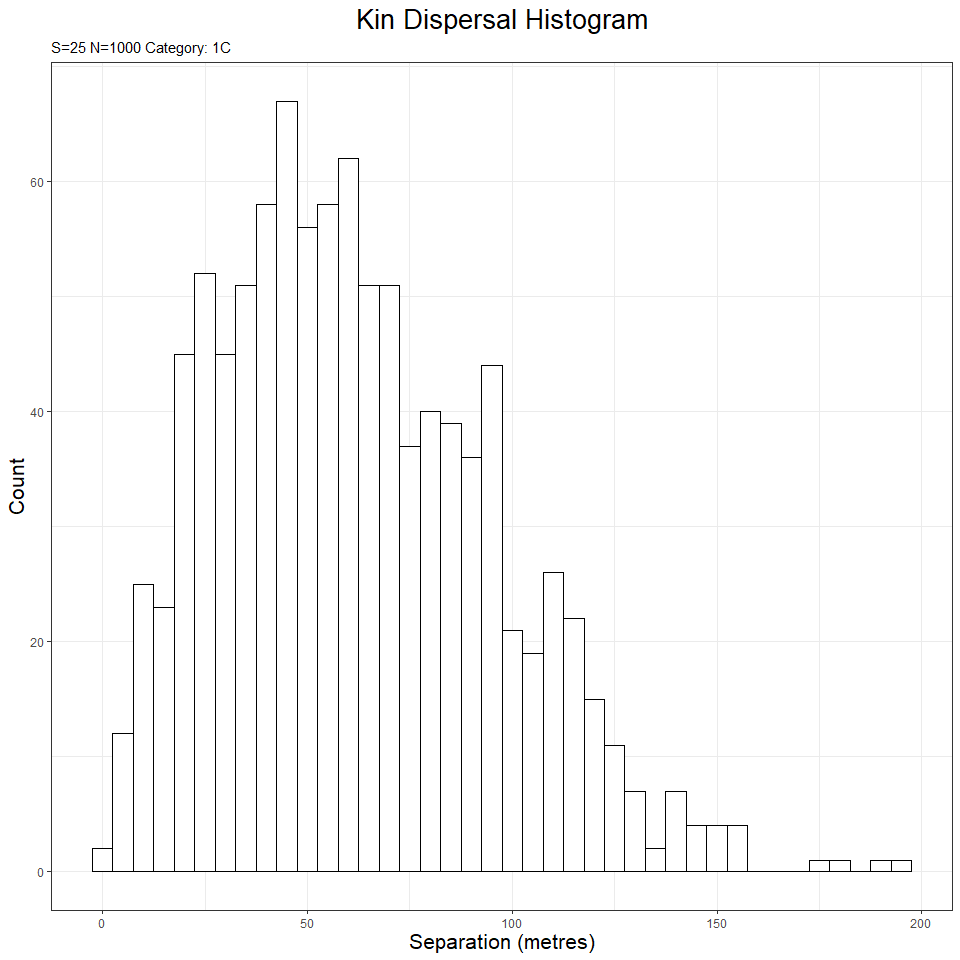
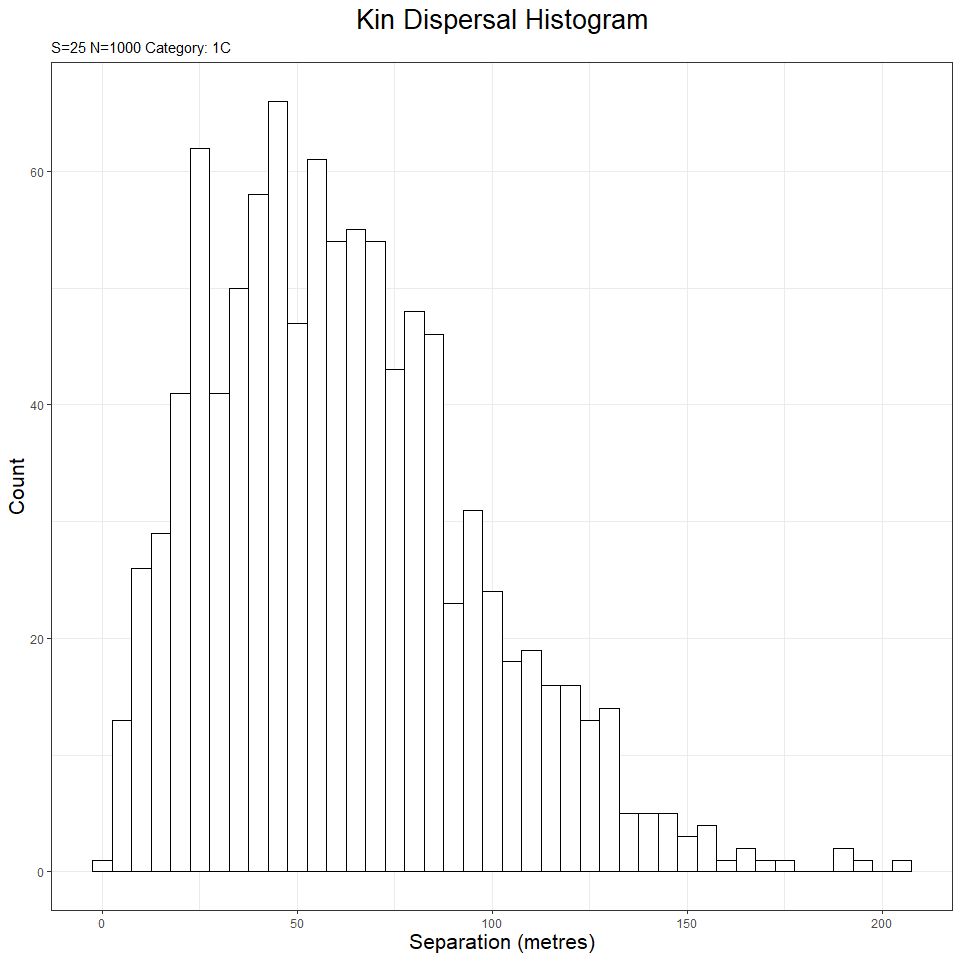
update readme

diff --git a/README.md b/README.md
@@ -18,8 +18,8 @@ KINDISPERSE 0.10.1
 <!-- badges: start -->
 <!-- badges: end -->
 
-The goal of kindisperse is to simulate and estimate close-kin dispersal
-kernels.
+The goal of <span class="smallcaps">kindisperse</span> is to simulate
+and estimate close-kin dispersal kernels.
 
 # 1. Introduction
 
@@ -118,9 +118,9 @@ dispersal in the yellow fever mosquito.”
 
 This package supplements these papers by supplying methods for (a)
 importing and exporting information about distances and kinship
-relationships for pairs of individuals, (b) estimating the axial
+relationships for dyads of individuals, (b) estimating the axial
 distribution (axial sigma for dispersal or position distributions) from
-empirical distributions of kin-pairs, and (c) estimating the
+empirical distributions of kin-dyads, and (c) estimating the
 intergenerational (parent-offspring) dispersal distribution (axial
 sigma) that underlies the distributions of multiple phased kin
 categories. This package also implements several simulation tools for
@@ -296,13 +296,13 @@ simulate_kindist_simple(nsims = 5, sigma = 100, method = "Gaussian", kinship = "
 #> 
 #> tab
 #> # A tibble: 5 x 8
-#>   id1   id2   kinship distance    x1    y1     x2     y2
-#>   <chr> <chr> <chr>      <dbl> <dbl> <dbl>  <dbl>  <dbl>
-#> 1 1a    1b    PO         155.   88.7  4.60  -21.1 -105. 
-#> 2 2a    2b    PO         232.   63.3 19.2  -145.   -82.5
-#> 3 3a    3b    PO         257.   14.5 77.8  -235.    18.0
-#> 4 4a    4b    PO         134.   50.0 86.1   -79.2  121. 
-#> 5 5a    5b    PO          65.4  96.9 79.7   100.    14.4
+#>   id1   id2   kinship distance    x1     y1    x2    y2
+#>   <chr> <chr> <chr>      <dbl> <dbl>  <dbl> <dbl> <dbl>
+#> 1 1a    1b    PO          40.7 59.7   9.37   31.3  38.6
+#> 2 2a    2b    PO         227.  34.6   0.493 210.  144. 
+#> 3 3a    3b    PO          90.5  7.66 25.7   -26.5 110. 
+#> 4 4a    4b    PO          98.3 20.8  17.1   106.  -31.7
+#> 5 5a    5b    PO          22.6 40.5  42.5    47.3  21.0
 #> -----------------------------------
 ```
 
@@ -348,13 +348,13 @@ simulate_kindist_composite(nsims = 5, initsigma = 50, breedsigma = 30, gravsigma
 #> 
 #> tab
 #> # A tibble: 5 x 8
-#>   id1   id2   kinship distance     x1    y1    x2     y2
-#>   <chr> <chr> <chr>      <dbl>  <dbl> <dbl> <dbl>  <dbl>
-#> 1 1a    1b    H1C         16.3   4.02 135.   17.3  144. 
-#> 2 2a    2b    H1C        207.  -18.8  -38.9  90.2 -215. 
-#> 3 3a    3b    H1C        197.  -21.1   49.0  26.4 -143. 
-#> 4 4a    4b    H1C         74.4  -3.60  56.7  46.2  112. 
-#> 5 5a    5b    H1C        198.   90.6   63.3 -60.0  -65.0
+#>   id1   id2   kinship distance    x1     y1     x2     y2
+#>   <chr> <chr> <chr>      <dbl> <dbl>  <dbl>  <dbl>  <dbl>
+#> 1 1a    1b    H1C         185.  45.8   25.5   65.6  209. 
+#> 2 2a    2b    H1C         408. -21.5  104.   302.  -144. 
+#> 3 3a    3b    H1C         143.  30.3 -180.    92.3  -51.5
+#> 4 4a    4b    H1C         117. -51.2   39.6 -113.   -60.2
+#> 5 5a    5b    H1C         281. 154.   -77.2  181.   203. 
 #> -----------------------------------
 ```
 
@@ -403,13 +403,13 @@ simulate_kindist_custom(nsims = 5, model = dmodel, kinship = "PO")
 #> 
 #> tab
 #> # A tibble: 5 x 8
-#>   id1   id2   kinship distance      x1    y1    x2    y2
-#>   <chr> <chr> <chr>      <dbl>   <dbl> <dbl> <dbl> <dbl>
-#> 1 1a    1b    PO         123.  59.6     37.0  19.6 154. 
-#> 2 2a    2b    PO         101.   0.0502  45.0  47.6 135. 
-#> 3 3a    3b    PO         106.  76.8     76.5  63.4 -29.1
-#> 4 4a    4b    PO          51.1 45.8     77.7  81.3 114. 
-#> 5 5a    5b    PO          19.3 83.4     87.1  93.3  70.5
+#>   id1   id2   kinship distance    x1    y1     x2    y2
+#>   <chr> <chr> <chr>      <dbl> <dbl> <dbl>  <dbl> <dbl>
+#> 1 1a    1b    PO          41.4 34.9   47.4  -5.63  56.3
+#> 2 2a    2b    PO          22.0  9.97  99.3  30.8  106. 
+#> 3 3a    3b    PO         166.  68.0   55.4 232.    82.0
+#> 4 4a    4b    PO          37.3 92.3   18.8  88.4  -18.2
+#> 5 5a    5b    PO          61.5 19.5   82.0 -26.9  122. 
 #> -----------------------------------
 ```
 
@@ -451,18 +451,18 @@ sample_kindist(compsim, upper = 1000, lower = 200, spacing = 50, n = 25)
 #> 
 #> tab
 #> # A tibble: 25 x 8
-#>    id1    id2    kinship distance     x1     y1     x2       y2
-#>    <chr>  <chr>  <chr>      <dbl>  <dbl>  <dbl>  <dbl>    <dbl>
-#>  1 74011a 74011b H2C          425  429.   -1.42  -10.5   21.0  
-#>  2 13401a 13401b H2C          275  213.  358.    349.    95.4  
-#>  3 90700a 90700b H2C          425   52.6 -82.8   463.  -109.   
-#>  4 78087a 78087b H2C          225  -65.0 181.    165.   165.   
-#>  5 57698a 57698b H2C          375   95.3 101.   -264.   -26.1  
-#>  6 13948a 13948b H2C          425 -126.  312.    270.   103.   
-#>  7 9955a  9955b  H2C          325 -239.  268.    -30.9   -0.872
-#>  8 95714a 95714b H2C          675 -211.  358.    433.   150.   
-#>  9 45206a 45206b H2C          325  301.  -28.3   211.   287.   
-#> 10 15410a 15410b H2C          225   55.3  86.6   173.  -118.   
+#>    id1    id2    kinship distance      x1     y1     x2     y2
+#>    <chr>  <chr>  <chr>      <dbl>   <dbl>  <dbl>  <dbl>  <dbl>
+#>  1 63692a 63692b H2C          475 -215.    236.   218.   387. 
+#>  2 33721a 33721b H2C          725  333.   -444.   315.   281. 
+#>  3 48528a 48528b H2C          425  510.    -56.2  166.   151. 
+#>  4 98372a 98372b H2C          375  -48.0  -226.   118.    94.4
+#>  5 49961a 49961b H2C          225  -48.4   287.  -257.   210. 
+#>  6 4577a  4577b  H2C          375 -164.   -229.    57.2   68.1
+#>  7 46586a 46586b H2C          525  -40.8  -158.   120.   355. 
+#>  8 66461a 66461b H2C          275  229.    256.   435.    44.6
+#>  9 28980a 28980b H2C          375  -22.3   216.   -39.8 -160. 
+#> 10 69366a 69366b H2C          375    2.15  308.   377.   267. 
 #> # ... with 15 more rows
 #> -----------------------------------
 ```
@@ -481,7 +481,7 @@ simulation objects of class `KinPairSimulation`).
 
 .csv or equivalent files used should have a single column with the
 header ‘distance’ that contains the geographical distances between kin
-pairs, and preferably another column labelled ‘kinship’ which carries
+dyads, and preferably another column labelled ‘kinship’ which carries
 the kinship category in a form recognized by this package (see
 documentation for further details). Example below:
 
@@ -558,13 +558,13 @@ of three draws from the PO distribution, and thus would take
 ``` r
 paroff <- simulate_kindist_simple(nsims = 1000, sigma = 75, kinship = "PO")
 axials(paroff)
-#> [1] 74.30846
+#> [1] 74.97167
 ```
 
 ``` r
 fullsibs <- simulate_kindist_composite(nsims = 10000, ovisigma = 25, kinship = "FS")
 axials(fullsibs, composite = 2)
-#> [1] 24.89536
+#> [1] 24.95087
 ```
 
 Various auxillary functions exist to further manipulate axial distances
@@ -647,8 +647,8 @@ fullcous <- simulate_kindist_composite(nsims = 75, initsigma = init, breedsigma 
 # calculate PO axial sigma C.I. 
 
 axpermute_standard(fullcous, fullsibs)
-#>      2.5%      mean     97.5% 
-#>  95.77087 109.33109 122.46380
+#>     2.5%     mean    97.5% 
+#> 76.86744 86.63217 97.08255
 ```
 
 As we can see, the C.I. neatly brackets the actual axial value, though
@@ -678,18 +678,18 @@ cousins
 #> 
 #> tab
 #> # A tibble: 150 x 9
-#>    id1   id2   kinship distance       x1    y1    x2     y2 lifestage
-#>    <chr> <chr> <chr>      <dbl>    <dbl> <dbl> <dbl>  <dbl> <chr>    
-#>  1 1a    1b    UN         185.    39.5   139.  105.  -33.6  immature 
-#>  2 2a    2b    UN         100.   -16.6   112.  -22.2 213.   immature 
-#>  3 3a    3b    UN          98.7  131.    119.   43.3  73.5  immature 
-#>  4 4a    4b    UN         196.   235.     27.1  51.5 -40.2  immature 
-#>  5 5a    5b    UN         242.    77.7   202.  -37.9 -10.8  immature 
-#>  6 6a    6b    UN         107.    94.8    27.7 194.  -13.6  immature 
-#>  7 7a    7b    UN         234.     0.705  43.0 211.  147.   immature 
-#>  8 8a    8b    UN         161.   -20.8   132.   78.6   5.57 immature 
-#>  9 9a    9b    UN         293.    25.0   -58.9  52.8 232.   immature 
-#> 10 10a   10b   UN         243.  -143.    -72.7  37.4  90.1  immature 
+#>    id1   id2   kinship distance     x1     y1      x2     y2 lifestage
+#>    <chr> <chr> <chr>      <dbl>  <dbl>  <dbl>   <dbl>  <dbl> <chr>    
+#>  1 1a    1b    UN         240.   242.   -44.9  113.    157.  immature 
+#>  2 2a    2b    UN         127.   167.    52.9  124.    172.  immature 
+#>  3 3a    3b    UN         141.    10.6   77.5   39.2   215.  immature 
+#>  4 4a    4b    UN         153.    17.3 -103.   166.    -65.6 immature 
+#>  5 5a    5b    UN         114.    43.1   41.8  -64.3    80.2 immature 
+#>  6 6a    6b    UN         307.   182.   203.   -77.2    37.3 immature 
+#>  7 7a    7b    UN         198.   105.    29.3    9.40 -144.  immature 
+#>  8 8a    8b    UN         161.    80.5  -87.9   69.6    73.1 immature 
+#>  9 9a    9b    UN         233.  -102.   118.  -309.    226.  immature 
+#> 10 10a   10b   UN          81.6   69.0  173.   -12.2   182.  immature 
 #> # ... with 140 more rows
 #> -------------------------------
 ```
@@ -705,7 +705,7 @@ missing category data:
 # the cousin mixture in phase)
 axpermute_standard(avect = cousins, acat = "1C", amix = TRUE, amixcat = "H1C", bvect = fullsibs, bcomp = TRUE, bcompvect = halfsibs)
 #>      2.5%      mean     97.5% 
-#>  85.05575  97.01883 108.91734
+#>  78.98689  90.72218 100.45978
 ```
 
 This estimate is a lot more convoluted, and not as ‘spot on’- but the
@@ -808,7 +808,7 @@ The `GG` kinship class (between 2nd yr mother and her grandchildren)
 The `AV` kinship class (between an adult female and the offspring of her
 full sibling - a partially sex-biased category)
 
-#### Third degree kinship
+#### Third order kinship
 
 Important categories here include `1C` and `HAV`. (`GAV` is also
 possible, but clearly distinguishable by life history).
@@ -877,18 +877,18 @@ ant_po
 #> 
 #> tab
 #> # A tibble: 10,000 x 8
-#>    id1   id2   kinship distance    x1    y1       x2     y2
-#>    <chr> <chr> <chr>      <dbl> <dbl> <dbl>    <dbl>  <dbl>
-#>  1 1a    1b    PO         115.  69.4  36.3   -39.8    73.6 
-#>  2 2a    2b    PO          74.7 61.2  75.5    -0.515 117.  
-#>  3 3a    3b    PO         111.  67.3  72.1   105.    177.  
-#>  4 4a    4b    PO          61.2 28.4  88.7   -27.9   113.  
-#>  5 5a    5b    PO         179.  47.6  98.5   226.    111.  
-#>  6 6a    6b    PO         139.  49.3  63.6   155.    -26.2 
-#>  7 7a    7b    PO          76.8 61.1  87.7   137.     76.0 
-#>  8 8a    8b    PO         159.   7.71  5.06 -152.      4.52
-#>  9 9a    9b    PO         145.  46.9  98.9   -74.8    20.7 
-#> 10 10a   10b   PO          42.5 39.4  78.5    55.7   118.  
+#>    id1   id2   kinship distance    x1    y1      x2    y2
+#>    <chr> <chr> <chr>      <dbl> <dbl> <dbl>   <dbl> <dbl>
+#>  1 1a    1b    PO          14.1 79.4  32.5    66.0   28.4
+#>  2 2a    2b    PO         242.   3.88 43.9   222.   149. 
+#>  3 3a    3b    PO          99.9  6.63 78.8   104.    99.2
+#>  4 4a    4b    PO         208.   7.28 79.7  -159.   205. 
+#>  5 5a    5b    PO         206.  97.1  51.5  -108.    65.0
+#>  6 6a    6b    PO         251.  34.7  57.7  -216.    78.5
+#>  7 7a    7b    PO          97.7 31.9  34.8    -6.34 -55.1
+#>  8 8a    8b    PO         125.  45.4  50.9   -49.2  133. 
+#>  9 9a    9b    PO          75.6 84.1   7.83  149.   -31.2
+#> 10 10a   10b   PO          50.1 38.9  79.5    32.2   29.9
 #> # ... with 9,990 more rows
 #> -----------------------------------
 ```
@@ -896,7 +896,7 @@ ant_po
 Now we’ll use the `axials()` function to characterise our ‘default’
 dispersal for the model:
 
-`axials(ant_po)`: 117.4876466
+`axials(ant_po)`: 116.8669059
 
 The value is around 117 the ‘expected’ value of PO we should get back
 from more complex estimation processes.
@@ -911,7 +911,7 @@ ant_fs <- simulate_kindist_custom(nsims = 10000, model = antechinus_model, kinsh
 ant_1c <- simulate_kindist_custom(nsims = 10000, model = antechinus_model, kinship = "1C")
 
 axials_standard(ant_1c, ant_fs) # larger dispersal category goes first. 
-#> [1] 119.0847
+#> [1] 117.9142
 ```
 
 The FS/1C strategy has been validated theoretically - but an important
@@ -1073,18 +1073,18 @@ ant_1c_juv
 #> 
 #> tab
 #> # A tibble: 100,000 x 8
-#>    id1   id2   kinship distance     x1     y1     x2    y2
-#>    <chr> <chr> <chr>      <dbl>  <dbl>  <dbl>  <dbl> <dbl>
-#>  1 1a    1b    1C          1.86  121.  129.    119.  129. 
-#>  2 2a    2b    1C        176.    198.   79.8    21.7  68.7
-#>  3 3a    3b    1C        108.    -40.5  -5.18  -55.2 102. 
-#>  4 4a    4b    1C         66.5    42.4  83.4   101.   52.7
-#>  5 5a    5b    1C        288.    -76.4 -97.1  -354.  -21.6
-#>  6 6a    6b    1C        233.   -105.   97.1    74.3 -51.2
-#>  7 7a    7b    1C        201.     10.4 105.    206.   60.4
-#>  8 8a    8b    1C         90.8    51.2 166.    -27.3 211. 
-#>  9 9a    9b    1C         60.0    58.7 153.     79.2  97.0
-#> 10 10a   10b   1C        116.     79.6 236.     29.0 131. 
+#>    id1   id2   kinship distance      x1       y1      x2        y2
+#>    <chr> <chr> <chr>      <dbl>   <dbl>    <dbl>   <dbl>     <dbl>
+#>  1 1a    1b    1C         364.   259.   -146.     -91.6   -45.8   
+#>  2 2a    2b    1C         164.   -71.3    52.1     51.8   160.    
+#>  3 3a    3b    1C         108.    -3.83   48.2     79.8   -20.4   
+#>  4 4a    4b    1C         264.   107.     49.5    366.      0.0607
+#>  5 5a    5b    1C          68.7  115.      0.928   61.5   -42.3   
+#>  6 6a    6b    1C         425.    68.8   -15.2    278.    355.    
+#>  7 7a    7b    1C         265.   173.     75.6    -66.4   190.    
+#>  8 8a    8b    1C         253.  -189.     48.7     -5.80 -126.    
+#>  9 9a    9b    1C          88.4   78.1    66.2      4.56   17.1   
+#> 10 10a   10b   1C         600.   -58.2   -20.9   -132.    574.    
 #> # ... with 99,990 more rows
 #> -----------------------------------
 ```
@@ -1110,16 +1110,16 @@ ant_fs_juv
 #> # A tibble: 100,000 x 8
 #>    id1   id2   kinship distance    x1    y1    x2    y2
 #>    <chr> <chr> <chr>      <dbl> <dbl> <dbl> <dbl> <dbl>
-#>  1 1a    1b    FS             0  39.8  76.6  39.8  76.6
-#>  2 2a    2b    FS             0  34.9  43.8  34.9  43.8
-#>  3 3a    3b    FS             0  95.3  54.5  95.3  54.5
-#>  4 4a    4b    FS             0  49.6  77.9  49.6  77.9
-#>  5 5a    5b    FS             0  35.8  92.1  35.8  92.1
-#>  6 6a    6b    FS             0  80.9  87.7  80.9  87.7
-#>  7 7a    7b    FS             0  19.9  67.7  19.9  67.7
-#>  8 8a    8b    FS             0  37.2  47.0  37.2  47.0
-#>  9 9a    9b    FS             0  76.6  71.8  76.6  71.8
-#> 10 10a   10b   FS             0  82.5  70.2  82.5  70.2
+#>  1 1a    1b    FS             0 11.7  27.8  11.7  27.8 
+#>  2 2a    2b    FS             0  3.65  7.11  3.65  7.11
+#>  3 3a    3b    FS             0 42.6  16.6  42.6  16.6 
+#>  4 4a    4b    FS             0 22.9   6.12 22.9   6.12
+#>  5 5a    5b    FS             0 38.0  87.4  38.0  87.4 
+#>  6 6a    6b    FS             0 16.3   4.08 16.3   4.08
+#>  7 7a    7b    FS             0 82.6  34.7  82.6  34.7 
+#>  8 8a    8b    FS             0 31.4  15.2  31.4  15.2 
+#>  9 9a    9b    FS             0 15.2   5.87 15.2   5.87
+#> 10 10a   10b   FS             0 85.1  22.0  85.1  22.0 
 #> # ... with 99,990 more rows
 #> -----------------------------------
 ```
@@ -1136,7 +1136,7 @@ they have not dispersed at all, so will not confound the estimate)
 ``` r
 axpermute_standard(ant_1c_juv, ant_fs_juv, nsamp = 100, override = TRUE)
 #>     2.5%     mean    97.5% 
-#> 101.9268 117.2940 134.0351
+#> 101.1379 117.2598 133.9107
 ```
 
 This is excellent so far. Mean dispersal is still around 117, so
@@ -1162,7 +1162,7 @@ ant_1c_juv %>% sample_kindist(dims = 100, n = 1000) %>% axpermute_standard(ant_f
 #> Down-sampling to 1000 kin pairs
 #> 1000 kin pairs remaining.
 #>     2.5%     mean    97.5% 
-#> 24.93026 27.27327 29.54674
+#> 25.58957 27.95790 30.18684
 ```
 
 A 100x100 metre sampling area is woefully inadequate (estimating the
@@ -1175,7 +1175,7 @@ ant_1c_juv %>% sample_kindist(dims = 1000, n = 1000) %>% axpermute_standard(ant_
 #> Down-sampling to 1000 kin pairs
 #> 1000 kin pairs remaining.
 #>      2.5%      mean     97.5% 
-#>  84.99809  96.70242 109.08064
+#>  91.05961 105.25217 121.05975
 ```
 
 We are doing better here: with an average of \~100m. But we’re still 15%
@@ -1187,8 +1187,8 @@ ant_1c_juv %>% sample_kindist(dims = 2000, n = 1000) %>% axpermute_standard(ant_
 #> Setting central sampling area to 2000 by 2000
 #> Down-sampling to 1000 kin pairs
 #> 1000 kin pairs remaining.
-#>     2.5%     mean    97.5% 
-#>  93.5031 107.8033 122.6264
+#>      2.5%      mean     97.5% 
+#>  99.67978 113.46032 127.73920
 ```
 
 This estimate is acceptable, with a mean only a few metres short, and
